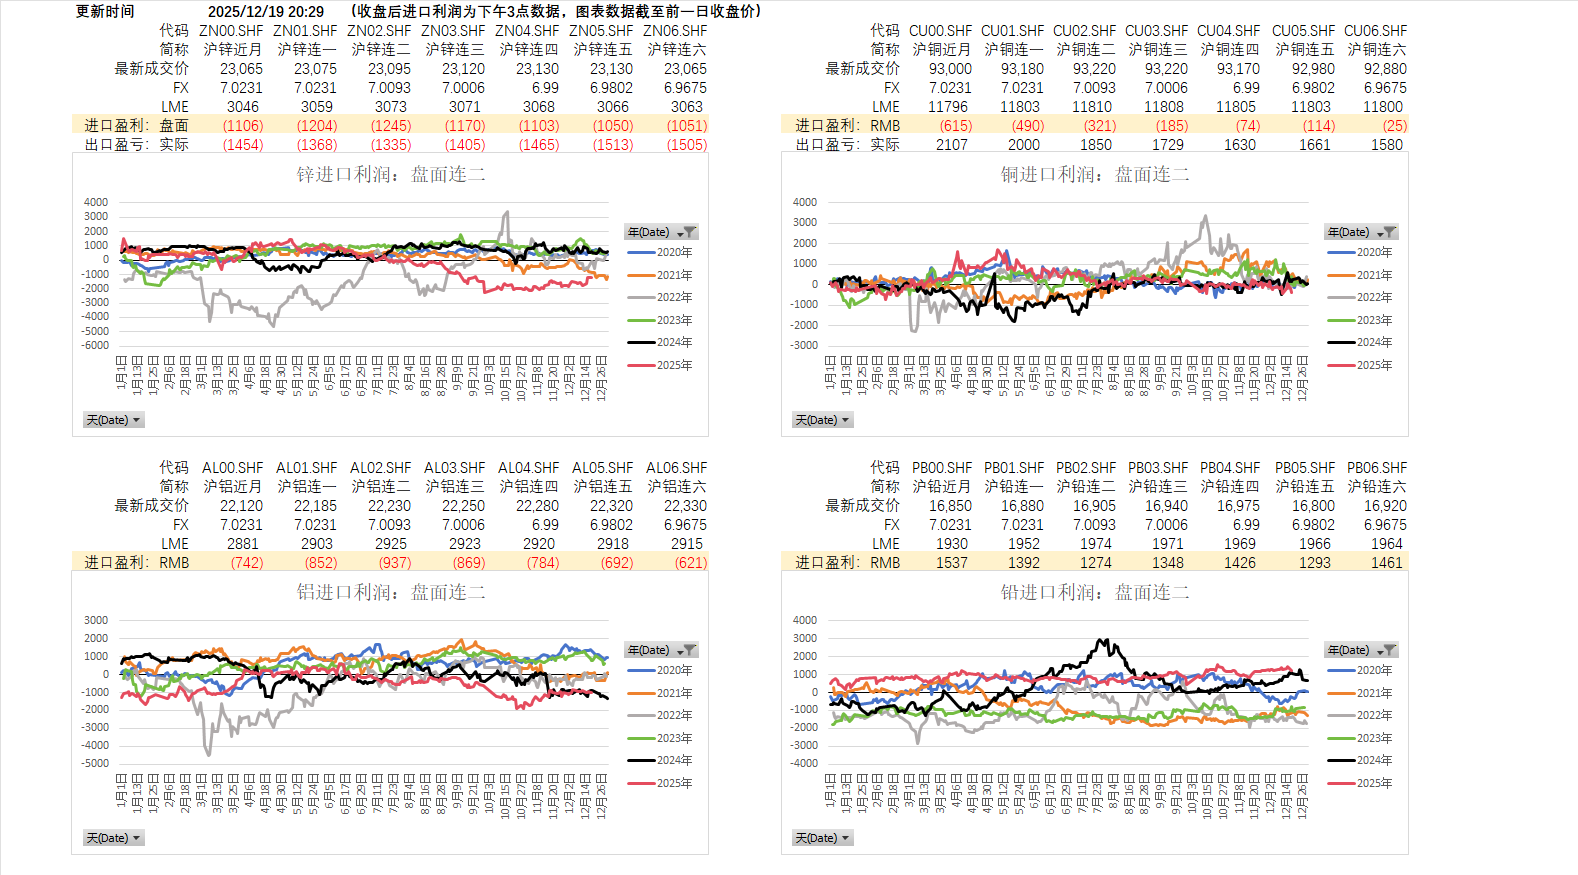
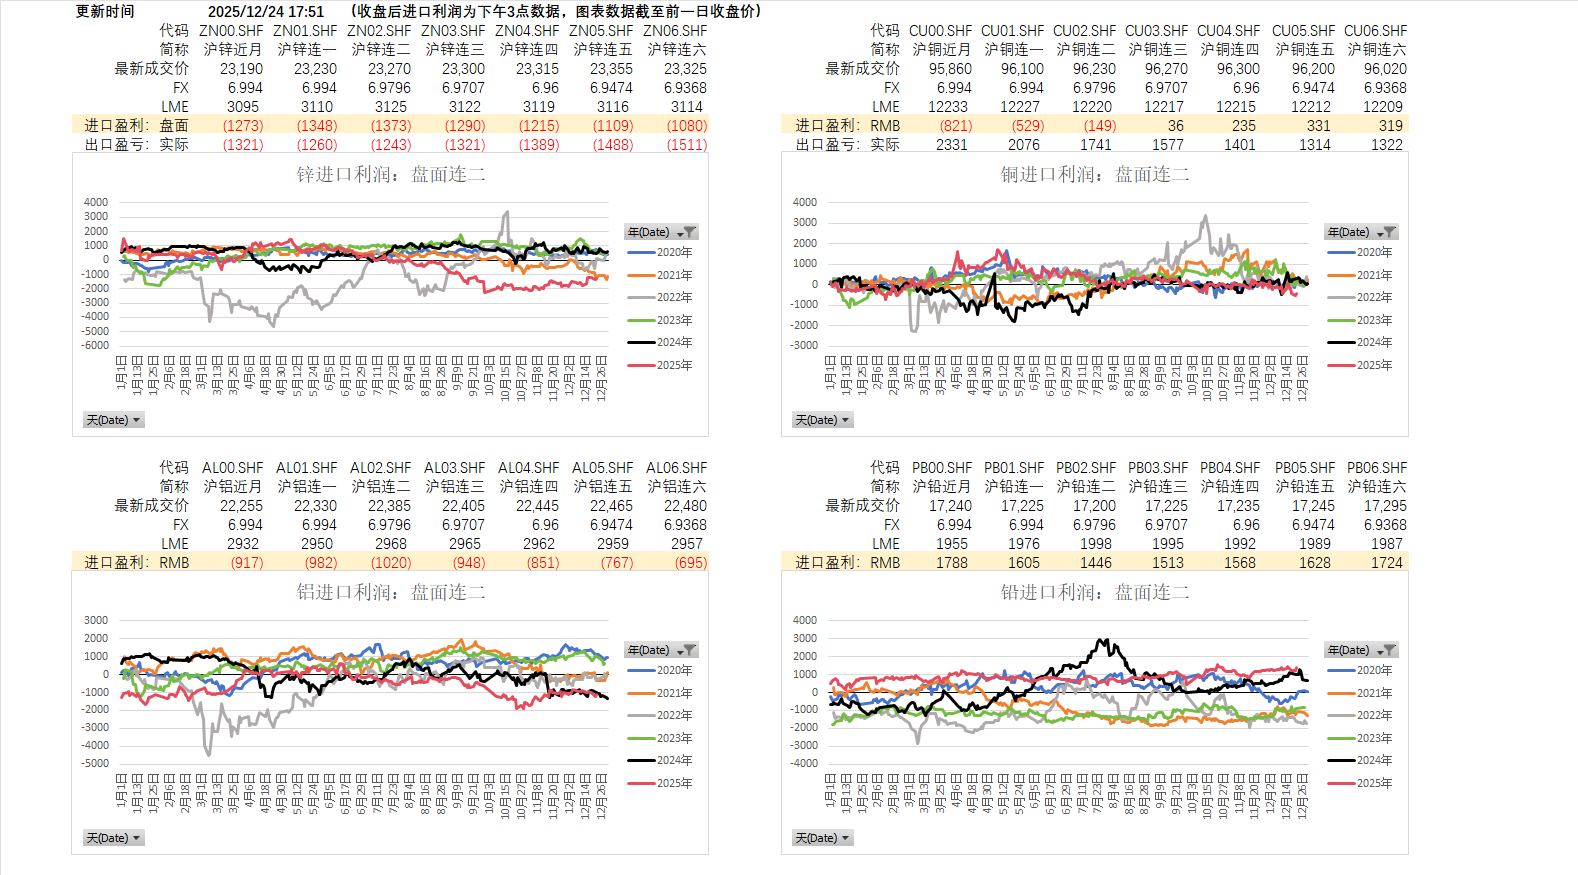
LAPTOP-KRS16UJL 2025-12-28:23:20:48

diff --git a/锌分析20251221.md b/锌分析20251221.md
@@ -1,14 +1,14 @@
 ## 总结
 
 
-- 策略：做空LME3100-3200建仓，目标2900以内，空估值等驱动。加工费（**内贸持平**，**外贸小幅下调**）但冶炼利润较往年中值仍高1000每吨，整体大厂仍有高利润主要因为高硫酸和银价，小厂基本没有利润。<font color = red>目前LME结构已经走弱至C，且本周加工费开始企稳，从韩国进口数据看KZ进口量级恢复正常，欧洲隐形库存量级大（主要在托克控制的国家），11月锌锭出口量超预期下修消费；从锌精矿进口看港口库存继续维持高位，冶炼有进一步恢复预期。</font>
+- 策略：做空LME3100-3200建仓，目标2900以内，空估值等驱动。加工费（**内贸环比-100**，**外贸小幅下调**）但冶炼利润较往年中值仍高1000每吨，整体大厂仍有高利润主要因为高硫酸和银价，小厂基本没有利润。<font color = red>目前LME结构已经走弱至C，且本周加工费开始企稳，从韩国进口数据看KZ进口量级恢复正常，欧洲隐形库存量级大（主要在托克控制的国家），11月锌锭出口量超预期下修消费；从锌精矿进口看港口库存继续维持高位，冶炼有进一步恢复预期。</font>
 - 主要矛盾：目前过剩矛盾收窄，加工费受冬季补库和银价飙升回落，现阶段港口锌精矿库存高于往年同期，锌锭受出口带动国内去库回到季节性：**考虑到绝对价格和加工费相关性最强，目前谨慎做空。
 
 - - **国内加工费出现边际回落，目前国产TC最高1800到厂，1600附近是主流成交区间，2000加工费在300硫酸下（具备较强综合回收能力的大厂）现金流利润打平，小厂3000打平，因此目前加工费仅在锌价快速下跌时期冶炼产量扰动概率大，震荡下行期间扰动小。产量从25年5月份之后开始同比开始转正。
 
  
 - 周度数据更新：<font color = red>**本周去库-6k，去库基本符合季节性；LME库存+38k，本周集中交仓体现结构打到c**</font>
-- - **锌精矿港口库存环比+5.6w至29.1w，同比+7.3w，12月到港增加**。
+- - **锌精矿港口库存环比-1.4w至27.7w，同比+7.3w，12月到港增加**。
 - - 海关数据显示1-11月进口锌精矿来源国：俄罗斯和刚果均有流入，10月澳矿来的少。
 - - **SMM国产TC 下调十二月（月度）-1000至2000；<font color = red>SMM周度tc+0至1600，但是成交区域间不平衡；SMM进口TC-0.43至50.13。**</font>
 - - LME锌库存+38k，新增注销仓单+2k，**本周看到大量交仓体现**。
